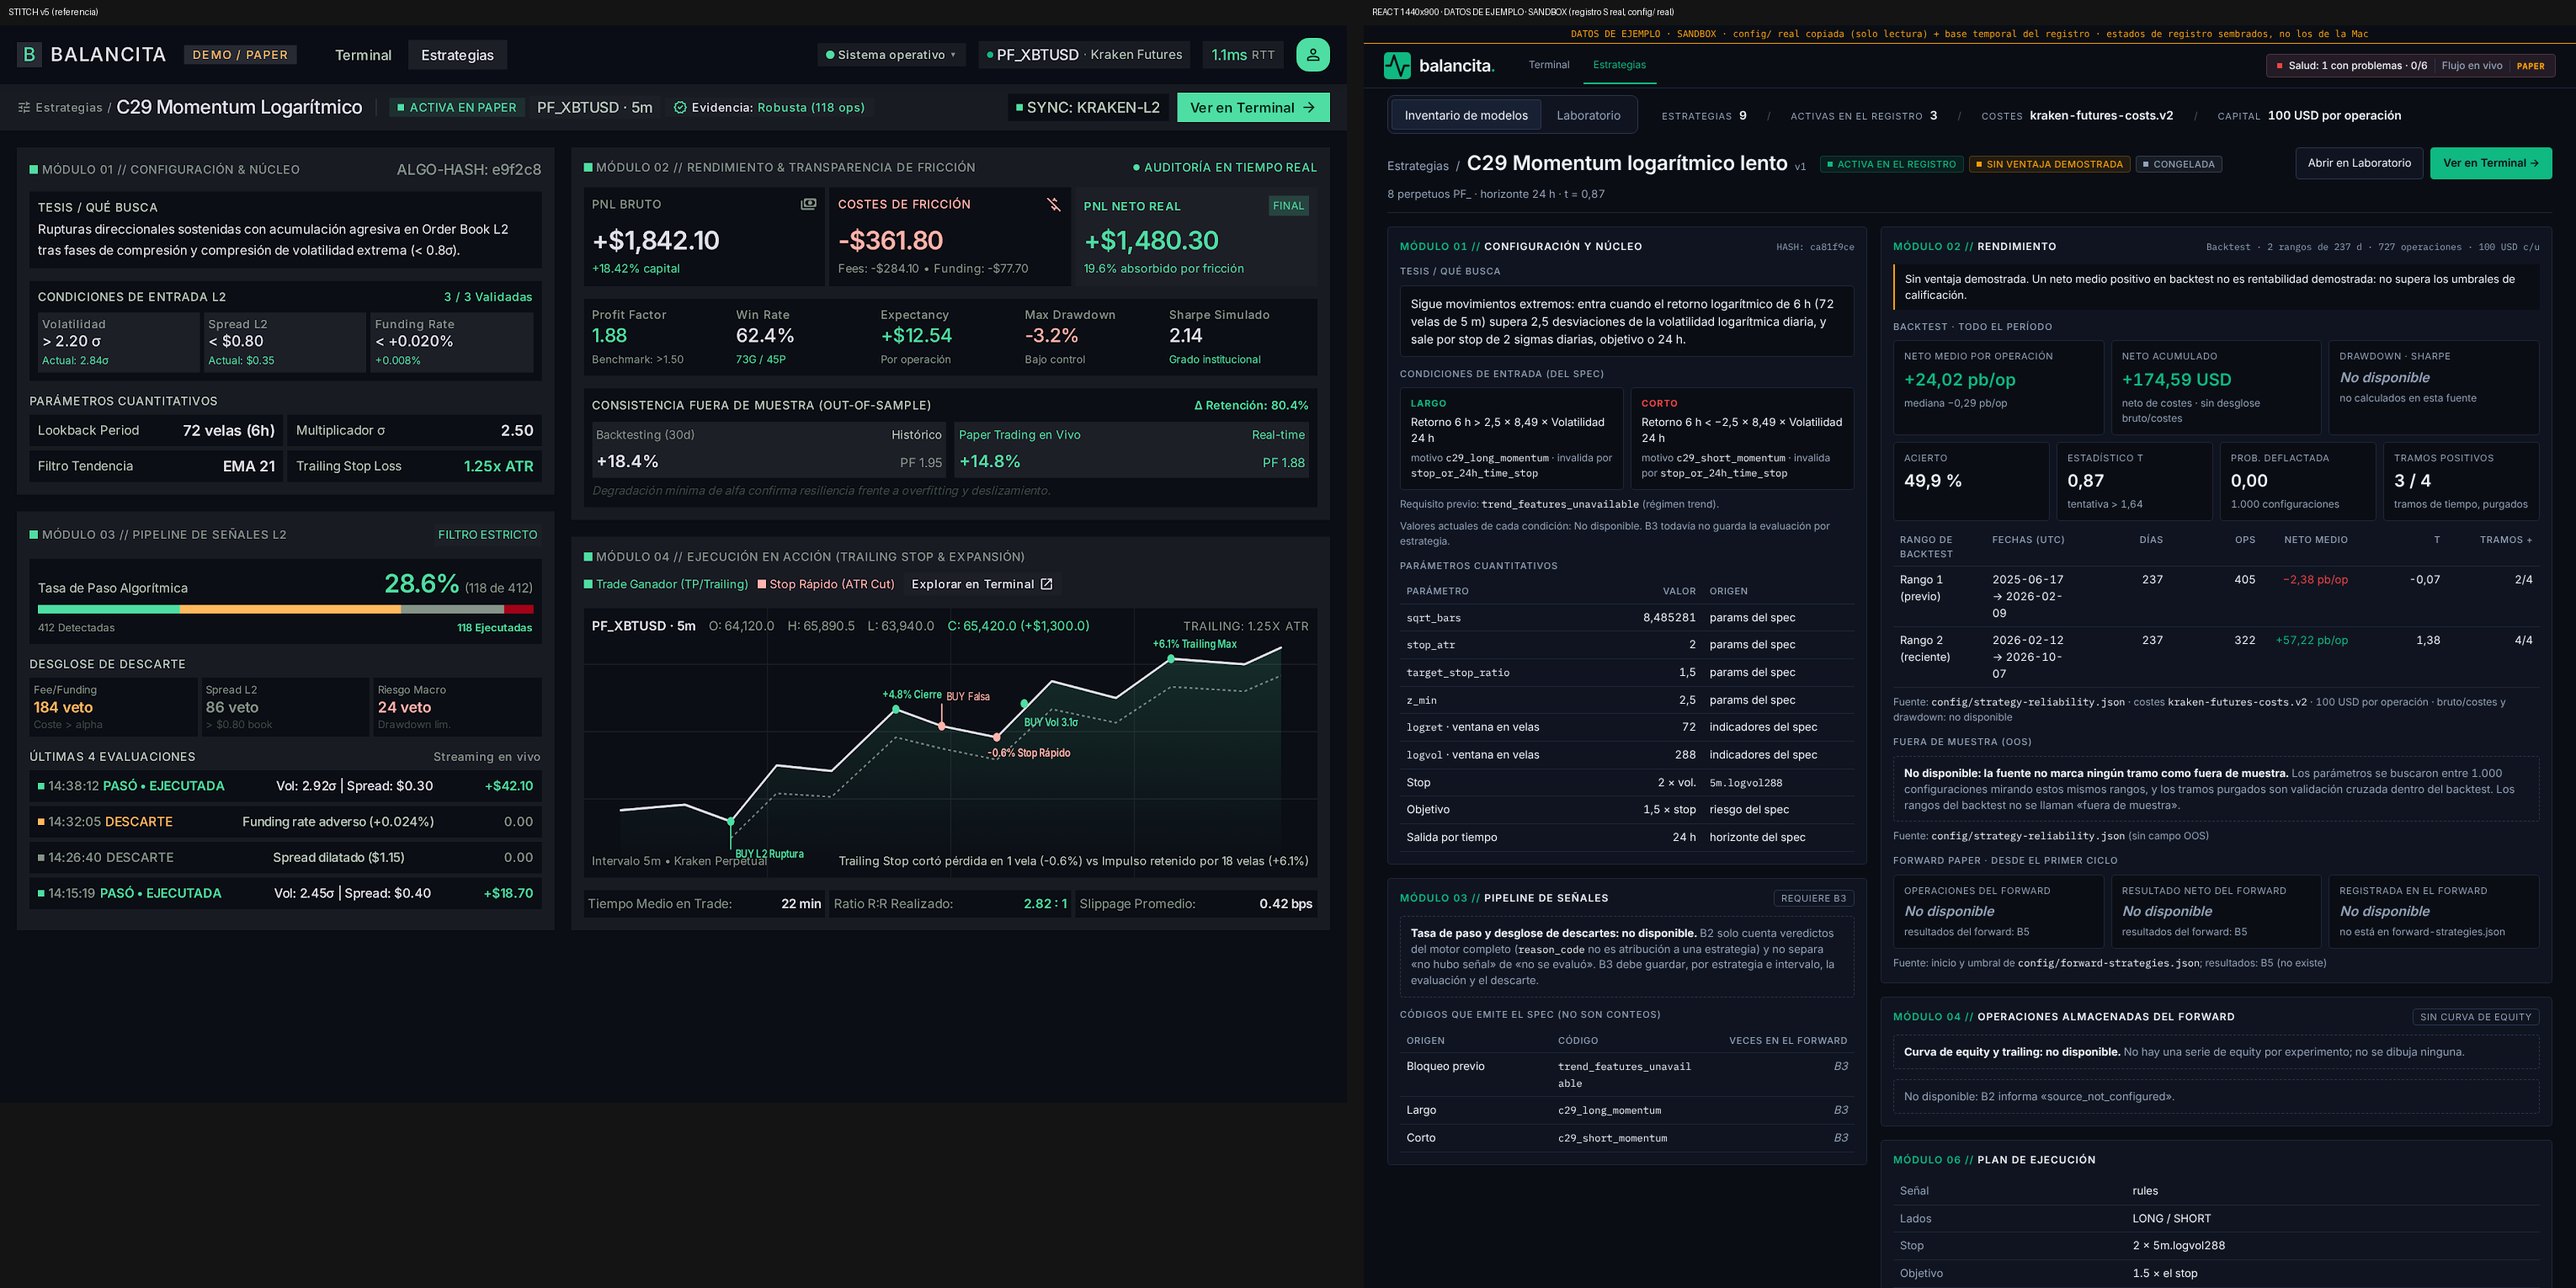
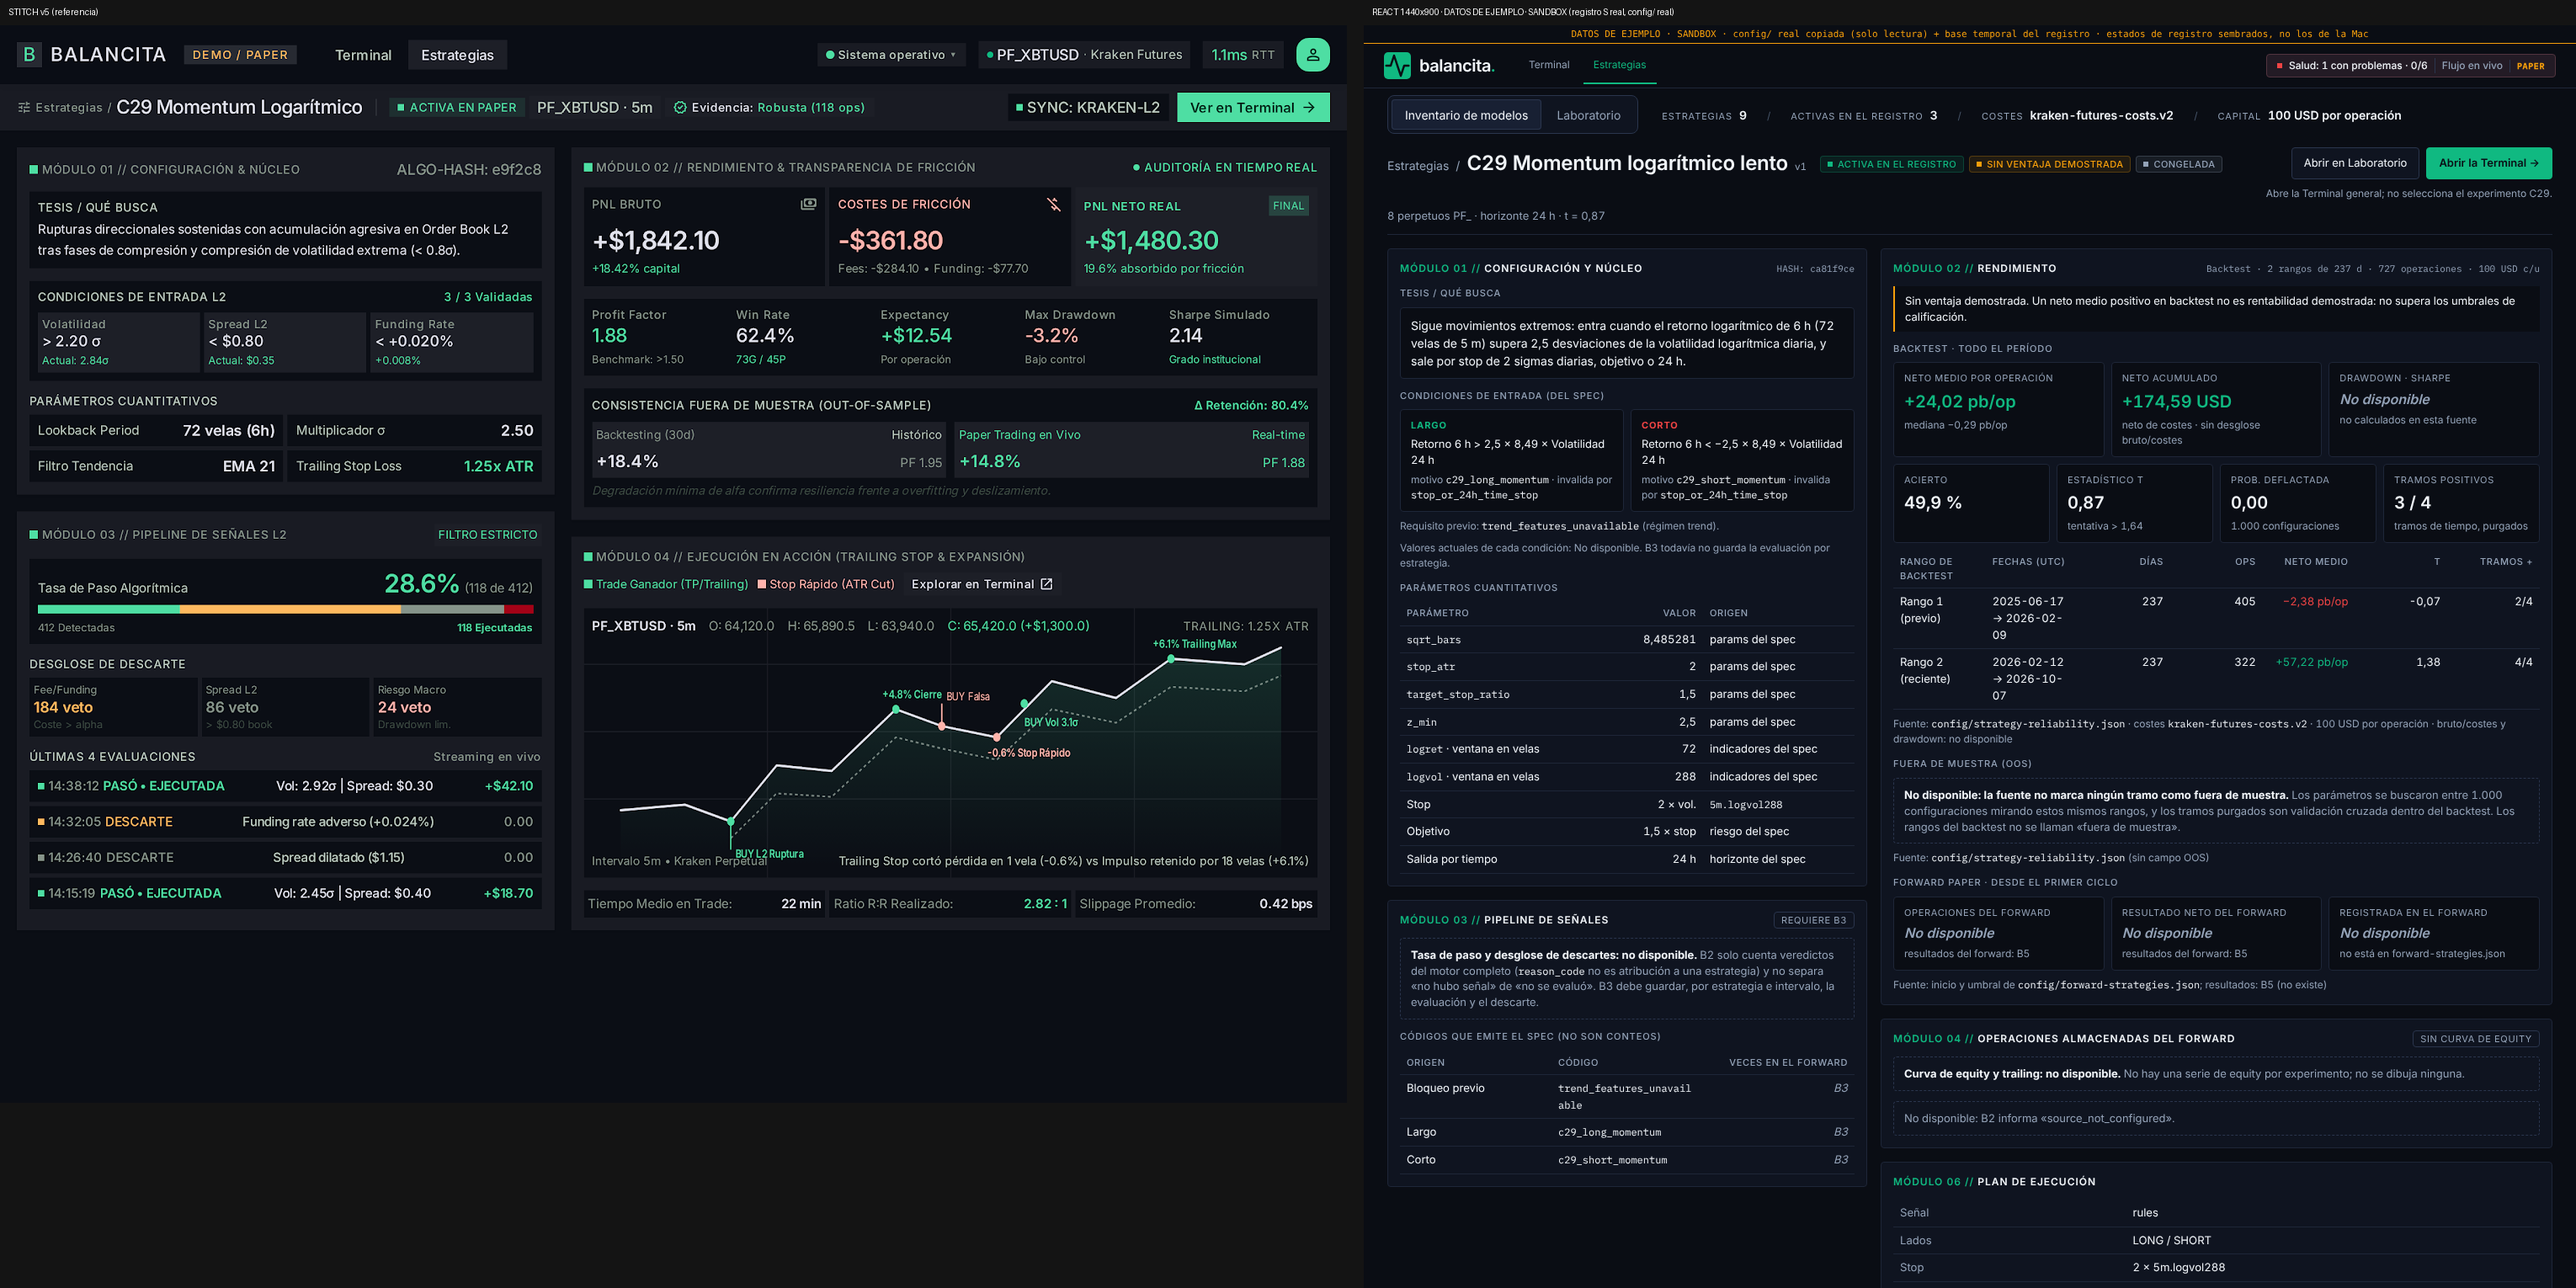
Detalle C29: «Abrir la Terminal» aclara que abre la Terminal general y no selecciona el experimento

diff --git a/e2e/estrategias-inventario.pw.ts b/e2e/estrategias-inventario.pw.ts
@@ -324,6 +324,23 @@ test('navigation: Terminal <-> Estrategias <-> inventory <-> detail, no new tabs
   await expect(detail.getByTestId('module-performance')).toContainText(
     'no tiene backtest por diseño',
   )
+  // Detail of C29 -> general Terminal (no C29 selection) -> back.
+  await detail.getByRole('button', { name: 'Estrategias' }).click()
+  await page.getByRole('button', { name: /Detalle de C29/ }).click()
+  await expect(detail.getByRole('heading', { name: /^C29/ })).toBeVisible()
+  await expect(detail.getByText('Ver en Terminal')).toHaveCount(0)
+  const toTerminal = detail.getByRole('link', { name: /Abrir la Terminal/ })
+  await expect(toTerminal).toHaveAccessibleDescription(
+    'Abre la Terminal general; no selecciona el experimento C29.',
+  )
+  await toTerminal.click()
+  await expect(page).toHaveURL(/\/terminal$/)
+  expect(new URL(page.url()).search + new URL(page.url()).hash).toBe('')
+  await expect(page.getByTestId('strategy-detail')).toHaveCount(0)
+  await page.goBack()
+  await expect(page).toHaveURL(/\/estrategias$/)
+  await expect(page.getByTestId('inventory-row')).toHaveCount(10)
+  await page.getByRole('button', { name: /Detalle de C32/ }).click()
   // Detail -> laboratory (explicit action) -> back to the inventory tab.
   await detail.getByRole('button', { name: 'Abrir en Laboratorio' }).click()
   await expect(page.getByRole('tab', { name: 'Laboratorio' })).toHaveAttribute(

diff --git a/src/features/strategy-lab/presentation/StrategyDetailView.tsx b/src/features/strategy-lab/presentation/StrategyDetailView.tsx
@@ -1017,6 +1017,7 @@ export default function StrategyDetailView({
   const activity = useLoaded(loadActivity, `activity:${row.id}`)
   const stored = detail.state === 'ok' ? detail.value : null
   const plan = plans.state === 'ok' ? (plans.value[row.id] ?? null) : null
+  const code = /^[A-Z]+\d+/.exec(row.name)?.[0] ?? row.name
   const market =
     row.market.products != null ? `${row.market.products} perpetuos PF_` : NA
   return (
@@ -1053,8 +1054,13 @@ export default function StrategyDetailView({
           <button type="button" onClick={onOpenLab}>
             Abrir en Laboratorio
           </button>
-          <a href="/terminal">Ver en Terminal →</a>
+          <a href="/terminal" aria-describedby="detail-terminal-note">
+            Abrir la Terminal →
+          </a>
         </div>
+        <p id="detail-terminal-note" className="detail__actions-note">
+          Abre la Terminal general; no selecciona el experimento {code}.
+        </p>
       </header>
 
       {detail.state === 'error' && (

diff --git a/src/features/strategy-lab/presentation/StrategyDetailView.test.tsx b/src/features/strategy-lab/presentation/StrategyDetailView.test.tsx
@@ -196,6 +196,16 @@ describe('StrategyDetailView (datos de ejemplo)', () => {
     )
   })
 
+  it('offers the general Terminal and does not promise to select the experiment', async () => {
+    view(() => Promise.resolve(report([])))
+    const link = await screen.findByRole('link', { name: /Abrir la Terminal/ })
+    expect(link).toHaveAttribute('href', '/terminal')
+    expect(link).toHaveAccessibleDescription(
+      'Abre la Terminal general; no selecciona el experimento X2.',
+    )
+    expect(screen.queryByText(/Ver en Terminal/)).not.toBeInTheDocument()
+  })
+
   it('draws no chart and states that there is no equity curve', async () => {
     const { container } = view(() => Promise.resolve(report([])))
     await screen.findByTestId('module-operations')

diff --git a/src/features/strategy-lab/presentation/StrategyDetailView.css b/src/features/strategy-lab/presentation/StrategyDetailView.css
@@ -98,6 +98,14 @@
   font-weight: 600;
 }
 
+.detail__actions-note {
+  flex-basis: 100%;
+  margin-top: -4px;
+  color: var(--mc-text-2);
+  font-size: 12px;
+  text-align: right;
+}
+
 .detail__grid {
   display: grid;
   grid-template-columns: minmax(0, 5fr) minmax(0, 7fr);

diff --git a/docs/mission-control/p2-detalle-c29/LEEME.md b/docs/mission-control/p2-detalle-c29/LEEME.md
@@ -11,6 +11,7 @@ Tipografía Inter / IBM Plex Mono cargada localmente (se permitió el directorio
 - `detalle-c29.png`: detalle de C29 a 1440x900.
 - `detalle-c29-completo.png`: página completa.
 - `comparacion-stitch-vs-react.png`: Stitch v5 (izquierda) y React (derecha).
+- Botón de la cabecera: «Abrir la Terminal →» abre la Terminal general (`/terminal`, sin estado de selección); la nota «Abre la Terminal general; no selecciona el experimento C29.» lo aclara y no promete navegar al experimento. Stitch decía «Ver en Terminal».
 - `solicitudes.json`: solicitudes `/api-*` de la captura (ninguna 4xx/5xx).
 
 ## Qué sale de qué fuente (C29)
